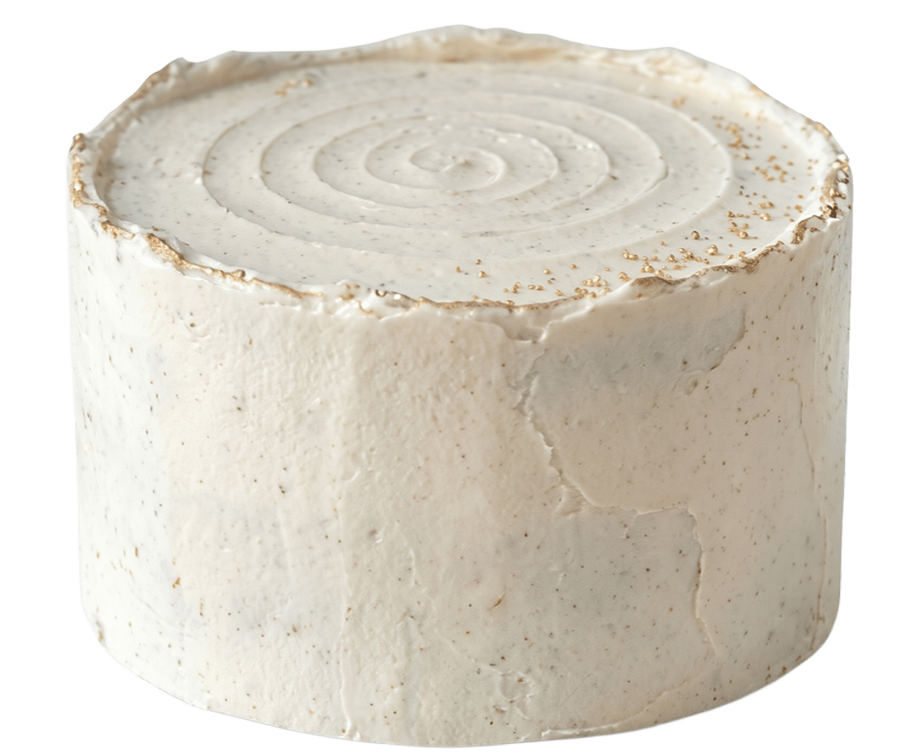
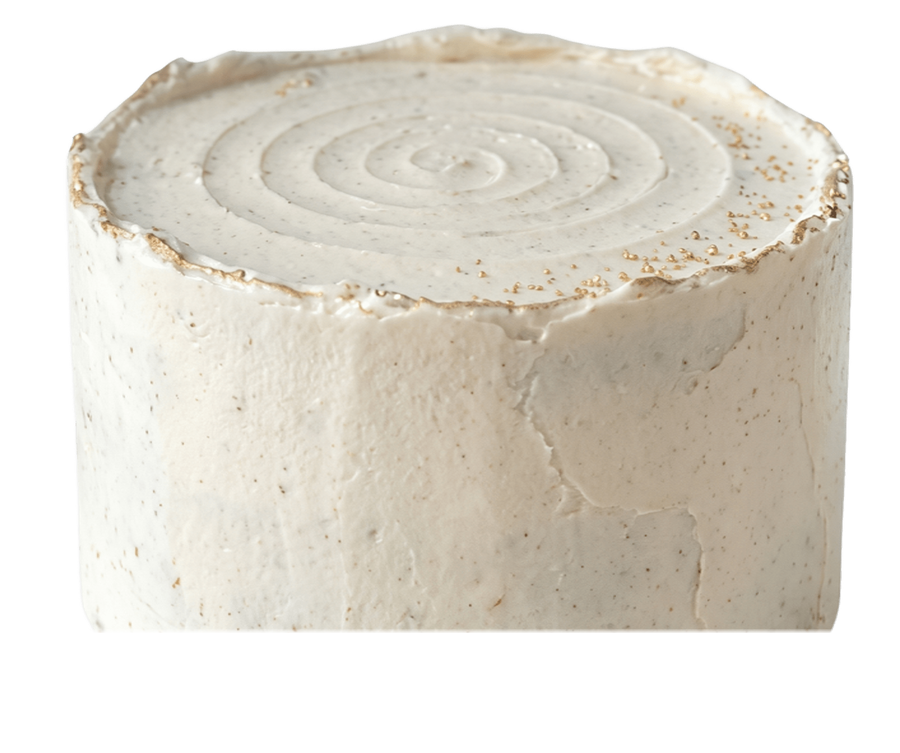
feat: desacopla base fixa do bolo escalavel pelo aro com tamanho maximo no aro 30

Changed region(s): [[0.1867, 0.8247, 0.9333, 1.0], [0.0933, 0.8247, 0.1244, 0.8552]]

diff --git a/app.js b/app.js
@@ -6,12 +6,12 @@
 document.addEventListener('DOMContentLoaded', () => {
   // --- DATA DEFINITIONS ---
   const SIZES = [
-    { id: 'aro-10', name: 'ARO 10', diameter: '10 cm', slices: '(6-8 fatias)', price: 70, scale: 0.85 },
-    { id: 'aro-15', name: 'ARO 15', diameter: '15 cm', slices: '(12-15 fatias)', price: 135, scale: 0.92 },
-    { id: 'aro-20', name: 'ARO 20', diameter: '20 cm', slices: '(20-25 fatias)', price: 195, scale: 1.00 },
-    { id: 'aro-25', name: 'ARO 25', diameter: '25 cm', slices: '(30-35 fatias)', price: 285, scale: 1.08 },
-    { id: 'aro-28', name: 'ARO 28', diameter: '28 cm', slices: '(40-45 fatias)', price: 365, scale: 1.14 },
-    { id: 'aro-30', name: 'ARO 30', diameter: '30 cm', slices: '(50-55 fatias)', price: 410, scale: 1.20 }
+    { id: 'aro-10', name: 'ARO 10', diameter: '10 cm', slices: '(6-8 fatias)', price: 70, scale: 0.58 },
+    { id: 'aro-15', name: 'ARO 15', diameter: '15 cm', slices: '(12-15 fatias)', price: 135, scale: 0.67 },
+    { id: 'aro-20', name: 'ARO 20', diameter: '20 cm', slices: '(20-25 fatias)', price: 195, scale: 0.76 },
+    { id: 'aro-25', name: 'ARO 25', diameter: '25 cm', slices: '(30-35 fatias)', price: 285, scale: 0.86 },
+    { id: 'aro-28', name: 'ARO 28', diameter: '28 cm', slices: '(40-45 fatias)', price: 365, scale: 0.94 },
+    { id: 'aro-30', name: 'ARO 30', diameter: '30 cm', slices: '(50-55 fatias)', price: 410, scale: 1.00 }
   ];
 
   const MASSAS = {
@@ -57,6 +57,8 @@ document.addEventListener('DOMContentLoaded', () => {
   // --- DOM ELEMENTS ---
   const cakeInteractiveBox = document.getElementById('cake-interactive-box');
   const realCakeWrapper = document.getElementById('real-cake-wrapper');
+  const cakeBaseFixed = document.getElementById('cake-base-fixed');
+  const cakeScalableGroup = document.getElementById('cake-scalable-group');
   
   // Layer Elements
   const layerBase = document.getElementById('layer-base');
@@ -183,8 +185,10 @@ document.addEventListener('DOMContentLoaded', () => {
       layerFatia.classList.remove('active');
     }
 
-    // Smoothly scale cake according to selected size
-    realCakeWrapper.style.transform = `scale(${currentSize.scale})`;
+    // Smoothly scale cake according to selected size (base stays unchanged)
+    if (cakeScalableGroup) {
+      cakeScalableGroup.style.transform = `scale(${currentSize.scale})`;
+    }
 
     // 3. Slider & Controls
     dimRange.value = state.sizeIndex;
@@ -268,8 +272,7 @@ document.addEventListener('DOMContentLoaded', () => {
     if (!state.isSwaying) {
       currentTiltX += (targetTiltX - currentTiltX) * 0.1;
       currentTiltY += (targetTiltY - currentTiltY) * 0.1;
-      const s = SIZES[state.sizeIndex].scale;
-      realCakeWrapper.style.transform = `scale(${s}) rotateX(${currentTiltX.toFixed(2)}deg) rotateY(${currentTiltY.toFixed(2)}deg)`;
+      realCakeWrapper.style.transform = `rotateX(${currentTiltX.toFixed(2)}deg) rotateY(${currentTiltY.toFixed(2)}deg)`;
     }
     requestAnimationFrame(tiltLoop);
   }
@@ -287,16 +290,14 @@ document.addEventListener('DOMContentLoaded', () => {
       rotateBtnText.textContent = 'Parar Giro';
       swayInterval = setInterval(() => {
         swayAngle += 0.035;
-        const s = SIZES[state.sizeIndex].scale;
         const tiltY = Math.sin(swayAngle) * 9.5;
         const tiltX = Math.cos(swayAngle * 0.6) * 4.0;
-        realCakeWrapper.style.transform = `scale(${s}) rotateY(${tiltY.toFixed(2)}deg) rotateX(${tiltX.toFixed(2)}deg)`;
+        realCakeWrapper.style.transform = `rotateY(${tiltY.toFixed(2)}deg) rotateX(${tiltX.toFixed(2)}deg)`;
       }, 25);
     } else {
       rotateBtnText.textContent = 'Girar Perspectiva';
       clearInterval(swayInterval);
-      const s = SIZES[state.sizeIndex].scale;
-      realCakeWrapper.style.transform = `scale(${s}) rotateY(0deg) rotateX(0deg)`;
+      realCakeWrapper.style.transform = `rotateY(0deg) rotateX(0deg)`;
       currentTiltX = 0;
       currentTiltY = 0;
       targetTiltX = 0;

diff --git a/index.html b/index.html
@@ -240,17 +240,22 @@
 
           <!-- Real Multi-Layer Cake Assembly -->
           <div class="real-cake-wrapper" id="real-cake-wrapper">
-            <!-- 1. Pedestal Stand Base -->
-            <img src="assets/base.png" alt="Base do Bolo" id="layer-base" class="cake-layer layer-base">
-            
-            <!-- 2. Whole Cake (for "Bolo Inteiro" mode) -->
-            <img src="assets/bolo_completo.png" alt="Bolo Completo" id="layer-completo" class="cake-layer layer-completo">
+            <!-- 1. Pedestal Stand Base (Base fixa: tamanho constante) -->
+            <div class="cake-base-fixed" id="cake-base-fixed">
+              <img src="assets/base.png" alt="Base do Bolo" id="layer-base" class="cake-layer layer-base">
+            </div>
 
-            <!-- 3. Cut Cake Body (for "Ver Fatia" mode) -->
-            <img src="assets/bolo_cortado_branco.png" alt="Bolo Cortado" id="layer-cortado" class="cake-layer layer-cortado active">
+            <!-- 2. Scalable Cake Group (Bolo escalável: aumenta conforme o aro) -->
+            <div class="cake-scalable-group" id="cake-scalable-group">
+              <!-- Whole Cake (for "Bolo Inteiro" mode) -->
+              <img src="assets/bolo_completo.png" alt="Bolo Completo" id="layer-completo" class="cake-layer layer-completo">
 
-            <!-- 4. Separate Slice Layer (slides/pulls out smoothly) -->
-            <img src="assets/fatia_branco.png" alt="Fatia do Bolo" id="layer-fatia" class="cake-layer layer-fatia active">
+              <!-- Cut Cake Body (for "Ver Fatia" mode) -->
+              <img src="assets/bolo_cortado_branco.png" alt="Bolo Cortado" id="layer-cortado" class="cake-layer layer-cortado active">
+
+              <!-- Separate Slice Layer -->
+              <img src="assets/fatia_branco.png" alt="Fatia do Bolo" id="layer-fatia" class="cake-layer layer-fatia active">
+            </div>
           </div>
 
           <!-- Floating Interactive Pill Buttons -->

diff --git a/style.css b/style.css
@@ -779,6 +779,31 @@ input[type="range"]#dimensions-range::-webkit-slider-thumb:hover {
   transition: transform 0.25s cubic-bezier(0.2, 0.8, 0.2, 1);
 }
 
+/* 1. Base Fixa: Pedestal & Prato de Mármore (Tamanho constante e imutável) */
+.cake-base-fixed {
+  position: absolute;
+  top: 0;
+  left: 0;
+  width: 100%;
+  height: 100%;
+  z-index: 1;
+  pointer-events: none;
+}
+
+/* 2. Grupo do Bolo Escalável: Escala conforme o ARO (ARO 10 a ARO 30 no tamanho máximo) */
+.cake-scalable-group {
+  position: absolute;
+  top: 0;
+  left: 0;
+  width: 100%;
+  height: 100%;
+  z-index: 2;
+  pointer-events: none;
+  transform-origin: 50% 54%;
+  transition: transform 0.45s cubic-bezier(0.2, 0.9, 0.2, 1);
+  will-change: transform;
+}
+
 .cake-layer {
   position: absolute;
   top: 0;
@@ -820,14 +845,14 @@ input[type="range"]#dimensions-range::-webkit-slider-thumb:hover {
 .layer-fatia {
   z-index: 3;
   opacity: 0;
-  transform: translate(0, 0);
+  transform: translate(-14px, 8px) scale(0.98);
 }
 
 .layer-fatia.active {
   opacity: 1;
-  /* Smoothly pulls the slice out in 3D perspective */
-  transform: translate(24px, -10px) scale(1.02);
-  filter: drop-shadow(-10px 14px 22px rgba(45, 34, 25, 0.28));
+  /* Posicionamento real da fatia destacada sobre o prato de mármore */
+  transform: translate(0, 0) scale(1);
+  filter: drop-shadow(-8px 12px 18px rgba(45, 34, 25, 0.22));
 }
 
 /* Floating Action Pills on Showcase */

diff --git a/README.md b/README.md
@@ -17,7 +17,7 @@ Interface interativa e minimalista de alta confeitaria para encomenda personaliz
   - **Massas Nobres:** Amostras visuais dinâmicas de *Branco (ovos)* e *Chocolate*.
   - **Recheios Exclusivos:** 7 sabores artesanais (*Morango, Ninho, Chocolate, Avelã, Côco, Maracujá e Abacaxi*).
   - **Montagem em Camadas Transparentes (PNG sem fundo):**
-    - **Base:** Pedestal artesanal em mármore e latão dourado.
+    - **Base Fixa:** Pedestal em mármore e latão que permanece com tamanho constante e imutável enquanto o bolo cresce na proporção do aro selecionado (tamanho máximo no ARO 30).
     - **Bolo Completo:** Visão integral e fechada do bolo.
     - **Bolo Cortado & Fatia:** Camadas independentes com animação suave de destaque da fatia (*cutaway pull-out*) ao alternar entre *Ver Fatia* e *Bolo Inteiro*.
     - **Massa Dinâmica:** Alternância imediata entre *Massa Branca (ovos)* e *Chocolate*.
